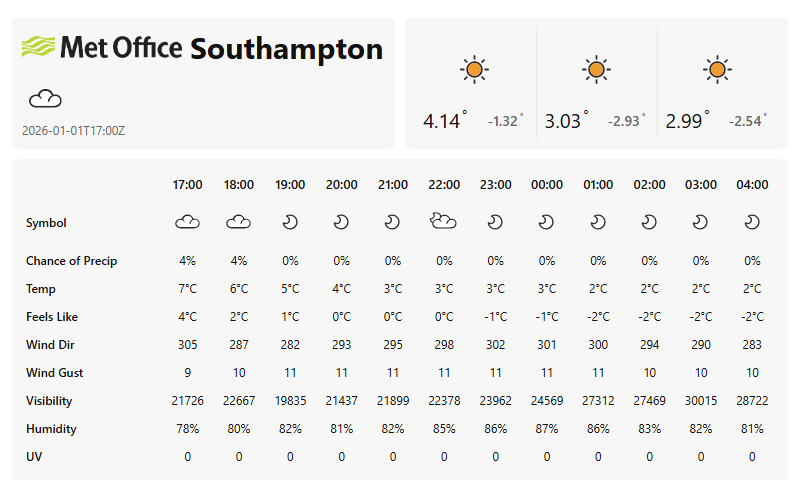
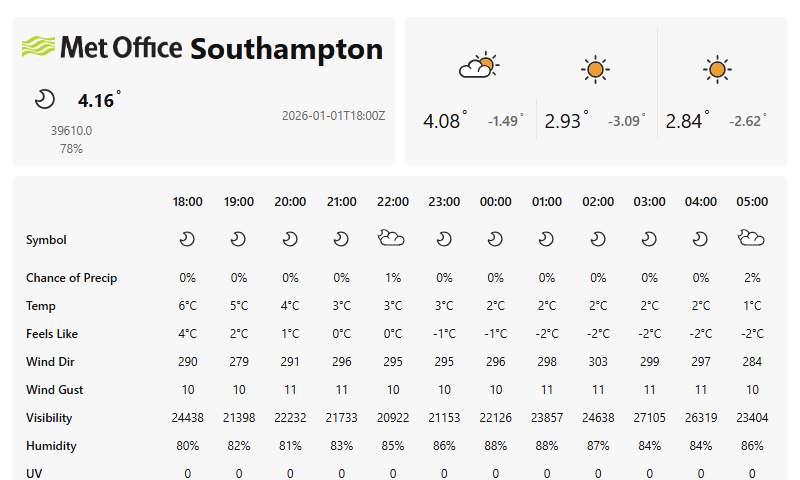
wip: vibe code the observations pane html and don't look at the CSS

diff --git a/src/plugins/burnsyweather/render/burnsyweather.css b/src/plugins/burnsyweather/render/burnsyweather.css
@@ -83,6 +83,10 @@ html,body{height:100%;margin:0;background:var(--bg);color:var(--fg);font-family:
 .panel-body{font-size:14px;line-height:1.2;color:var(--fg);overflow:hidden}
 .panel-body.small{font-size:12px;color:var(--muted);overflow:hidden}
 
+.panel-body.small .body-row{display:flex;align-items:center;justify-content:space-between;gap:8px}
+.panel-body.small .body-left{display:flex;flex-direction:column;justify-content:space-between;min-width:64px}
+.panel-body.small .body-right{font-size:12px;color:var(--muted);text-align:right;min-width:80px}
+
 .panel.full{height:100%}
 
 /* Ensure panels fill their grid areas */
@@ -123,13 +127,17 @@ html,body{height:100%;margin:0;background:var(--bg);color:var(--fg);font-family:
 
 
 /* vertical dividers between day groups — target odd columns except the first (3 and 5) */
-.daily-table thead th:nth-child(2),
-.daily-table thead th:nth-child(3),
-/* symbols row uses three cells (each colspan=2) */
-.daily-table tbody tr.symbols-row td:nth-child(2),
-.daily-table tbody tr.symbols-row td:nth-child(3),
-/* temps row uses six cells (max,min pairs) - put dividers before 3rd and 5th cells */
-.daily-table tbody tr.temps-row td:nth-child(3),
-.daily-table tbody tr.temps-row td:nth-child(5) {
+.daily-table th:nth-child(odd):not(:first-child), .daily-table td:nth-child(odd):not(:first-child) {
   border-left: 1px solid var(--daily-divider);
 }
+
+/* Left panel small body: split top into symbol + temperature horizontally */
+.panel-body.small .body-left-top{display:flex;flex-direction:row;align-items:center;gap:8px}
+.panel-body.small .body-left-top-symbol img{width:48px;height:auto;display:block}
+.panel-body.small .body-left-top-temp{font-size:18px;font-weight:700;color:var(--fg)}
+.panel-body.small .observation-temperature{line-height:1}
+
+/* visibility + humidity stacked */
+.panel-body.small .body-left-bottom{display:flex;flex-direction:column;align-items:center;gap:4px}
+.panel-body.small .observation-visibility{font-size:12px;color:var(--muted)}
+.panel-body.small .observation-humidity{font-size:12px;color:var(--muted)}

diff --git a/src/plugins/burnsyweather/render/burnsyweather.html b/src/plugins/burnsyweather/render/burnsyweather.html
@@ -14,12 +14,28 @@
           </div>
         </div>
 
-        <div class="panel-body small">
-          {{ content | safe }}
-          <img src="{{ hour_one_weather_symbol }}">
-          <div class="model_run_time">{{ model_run_time }}</div>
+      
+        <div id="observations-pane" class="panel-body small observations-panel">
+          <div class="body-row">
+            <div class="body-left">
+              <div class="body-left-top">
+                <div class="body-left-top-symbol">
+                  <img src="{{ hour_one_weather_symbol }}" alt="hour symbol">
+                </div>
+                <div class="body-left-top-temp observation-temperature">{{ observation_temperature }}<span class="deg">°</span></div>
+              </div>
+              <div class="body-left-bottom">
+                <div class="observation-visibility">{{ observation_visibility }}</div>
+                <div class="observation-humidity">{{ observation_humidity }}%</div>
+              </div>
+            </div>
+            <div class="body-right model_run_time">{{ model_run_time }}</div>
+          </div>
         </div>
+
+
       </div>
+      
     <div class="panel right">
       <div class="panel-body small">
         <table class="daily-table">
